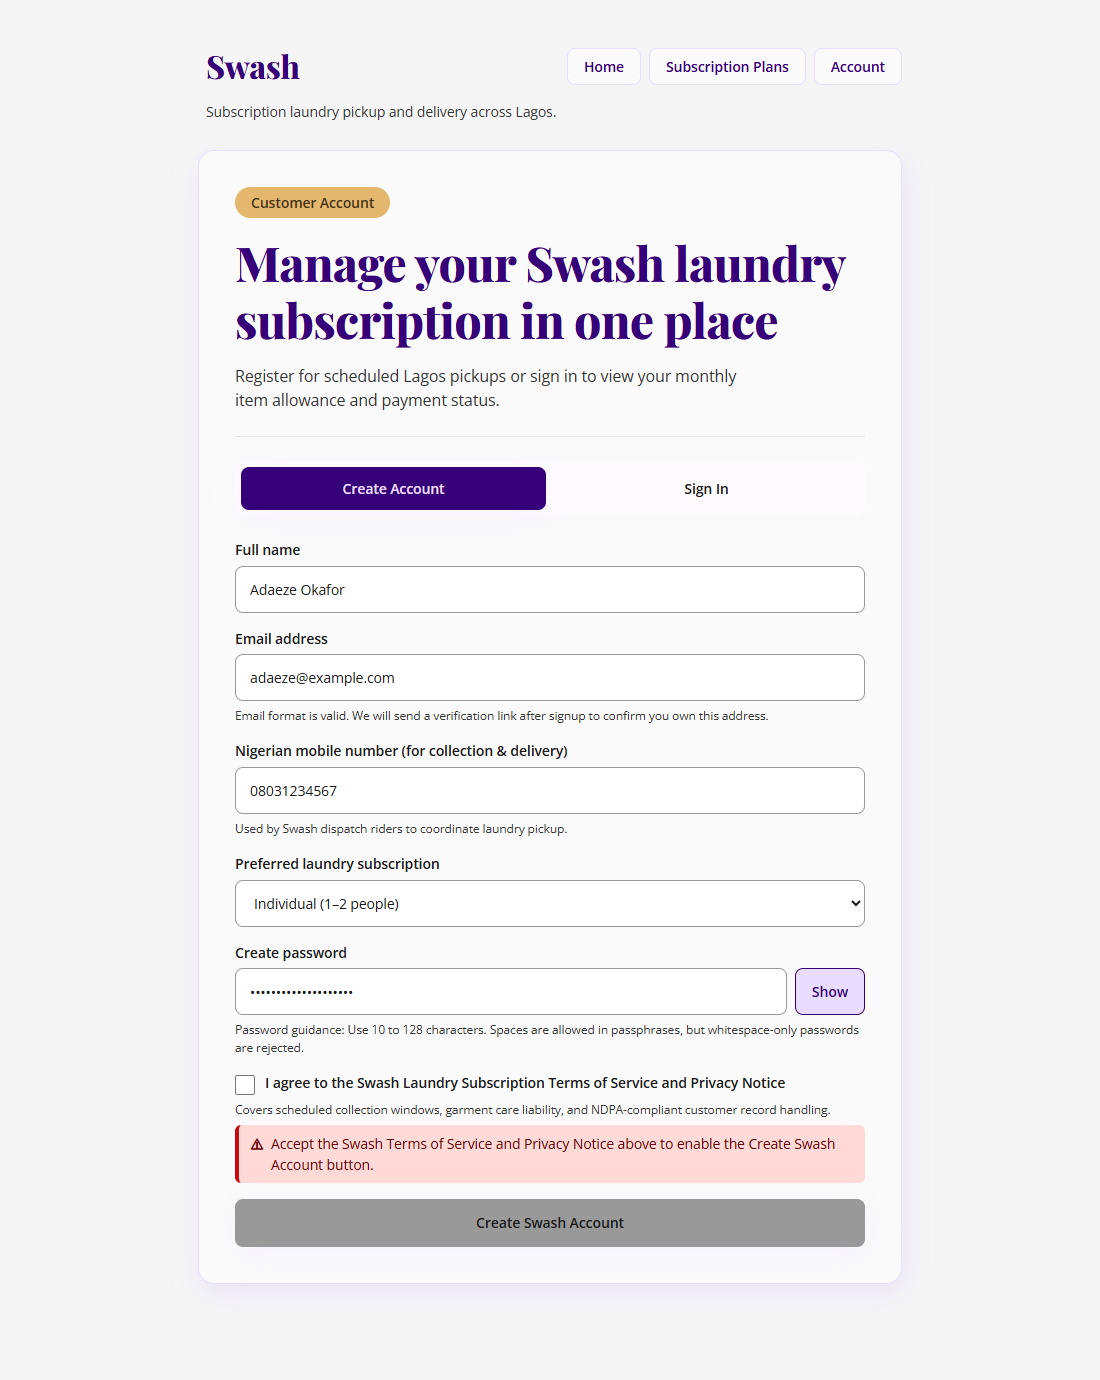
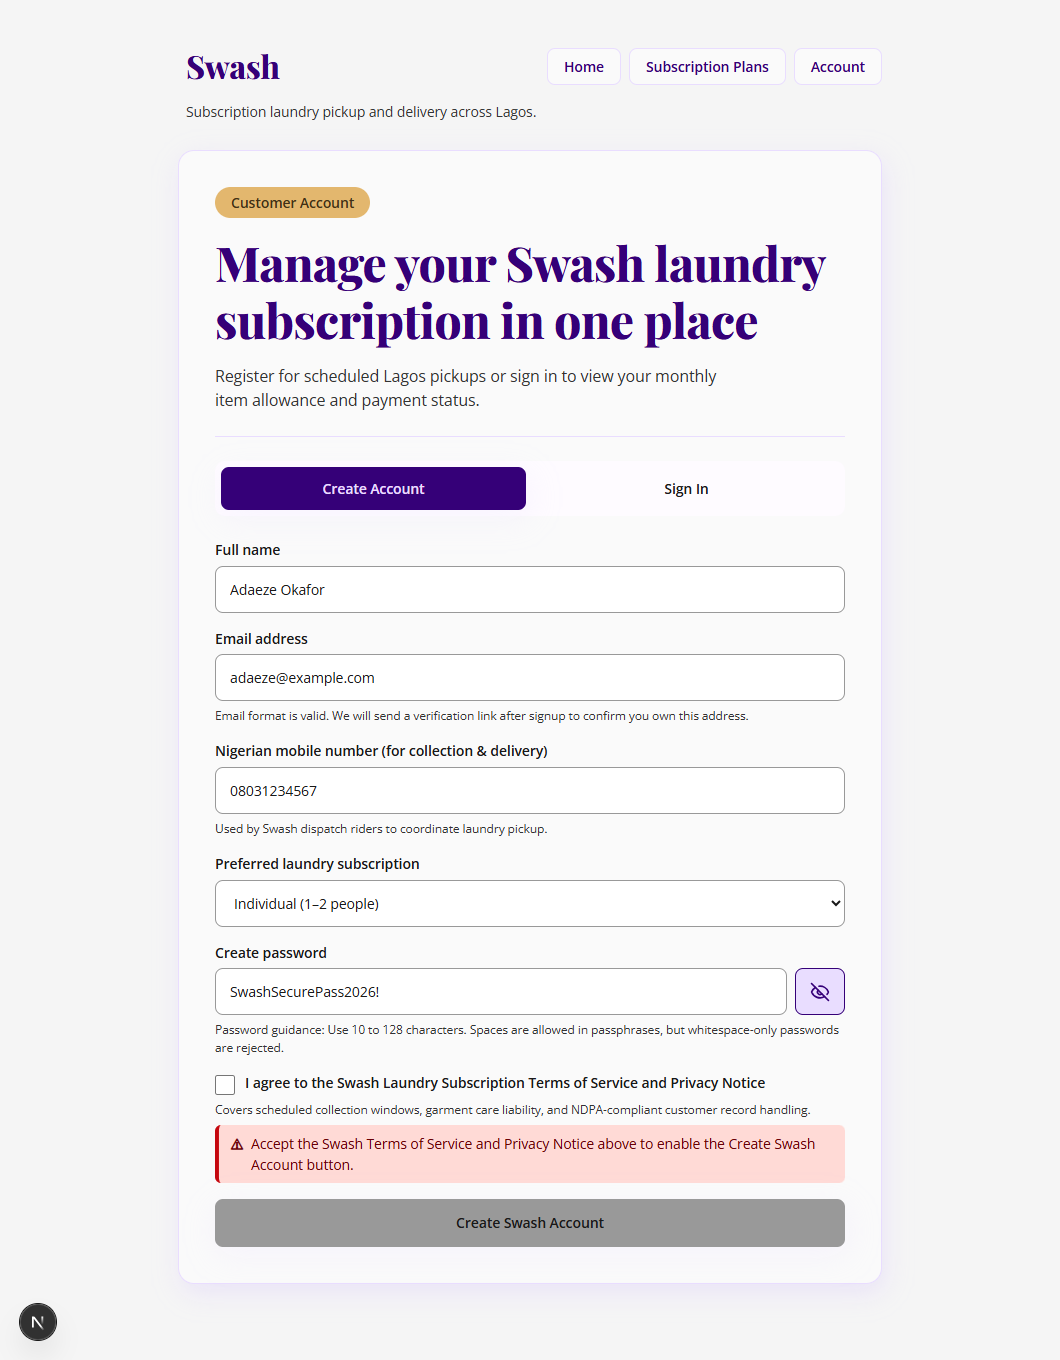
updated auth form ui

diff --git a/src/components/AuthForm.tsx b/src/components/AuthForm.tsx
@@ -487,8 +487,46 @@ export default function AuthForm() {
               onClick={() => setShowPassword((prev) => !prev)}
               aria-label={showPassword ? "Hide password" : "Show password"}
               aria-pressed={showPassword}
+              aria-controls="auth-password"
+              id="auth-password-toggle"
             >
-              {showPassword ? "Hide" : "Show"}
+              {showPassword ? (
+                <svg
+                  xmlns="http://www.w3.org/2000/svg"
+                  width="20"
+                  height="20"
+                  viewBox="0 0 24 24"
+                  fill="none"
+                  stroke="currentColor"
+                  strokeWidth="2"
+                  strokeLinecap="round"
+                  strokeLinejoin="round"
+                  className="lucide lucide-eye-off"
+                  aria-hidden="true"
+                >
+                  <path d="M10.733 5.076a10.744 10.744 0 0 1 11.205 6.575 1 1 0 0 1 0 .696 10.747 10.747 0 0 1-1.444 2.49" />
+                  <path d="M14.084 14.158a3 3 0 0 1-4.242-4.242" />
+                  <path d="M17.479 17.499a10.75 10.75 0 0 1-15.417-5.151 1 1 0 0 1 0-.696 10.75 10.75 0 0 1 4.446-5.143" />
+                  <path d="m2 2 20 20" />
+                </svg>
+              ) : (
+                <svg
+                  xmlns="http://www.w3.org/2000/svg"
+                  width="20"
+                  height="20"
+                  viewBox="0 0 24 24"
+                  fill="none"
+                  stroke="currentColor"
+                  strokeWidth="2"
+                  strokeLinecap="round"
+                  strokeLinejoin="round"
+                  className="lucide lucide-eye"
+                  aria-hidden="true"
+                >
+                  <path d="M2.062 12.348a1 1 0 0 1 0-.696 10.75 10.75 0 0 1 19.876 0 1 1 0 0 1 0 .696 10.75 10.75 0 0 1-19.876 0" />
+                  <circle cx="12" cy="12" r="3" />
+                </svg>
+              )}
             </button>
           </div>
 

diff --git a/src/app/page.module.css b/src/app/page.module.css
@@ -505,13 +505,16 @@
 }
 
 .passwordToggle {
+  display: inline-flex;
+  align-items: center;
+  justify-content: center;
   background-color: var(--colour-inverse-primary-role);
   color: var(--colour-on-inverse-primary-role);
   border-width: 0.0625rem;
   border-style: solid;
   border-color: var(--colour-on-inverse-primary-role);
   border-radius: 0.5rem;
-  padding: 0.625rem 1rem;
+  padding: 0.625rem 0.875rem;
   cursor: pointer;
   font-family: var(--typography-open-sans-label-large-font-family), system-ui, -apple-system, sans-serif;
   font-size: var(--typography-open-sans-label-large-font-size);

diff --git a/task-03-client-validation/docs/accessibility-audit.md b/task-03-client-validation/docs/accessibility-audit.md
@@ -10,7 +10,7 @@ This document records the field-by-field manual accessibility audit of [`src/com
 | --- | --- | --- | --- |
 | **1** | **Error state relied on red border/text colour alone:** Invalid inputs changed border colour to `--colour-error-role` without any non-colour symbol, making error vs. normal states indistinguishable for users with protanopia/deuteranopia or monochrome displays. | **1.4.1 Use of Color (Level A)** | Added a visible non-colour caution icon (`<span aria-hidden="true" className={styles.cautionIcon}>⚠</span>`) beside every inline error message (`src/components/AuthForm.tsx:287, 336, 379, 463, 498`) and doubled the border width on `.inputError` from `0.0625rem` (`1px`) to `0.125rem` (`2px`). |
 | **2** | **Inline errors were not programmatically associated with inputs:** Error `<p>` elements rendered visually below inputs, but the `<input>` elements lacked `aria-describedby` and `aria-invalid`, so screen readers tabbing into an invalid field only announced `"Full name, edit, required"` without reading the error message. | **1.3.1 Info and Relationships (Level A)** & **3.3.1 Error Identification (Level A)** | Added unique IDs (`#auth-full-name-error`, `#auth-email-error`, `#auth-phone-error`, `#auth-password-error`, `#auth-accept-terms-error`), bound `aria-describedby` on each `<input>`, and set `aria-invalid={Boolean(visibleErrors[field])}` plus `role="alert"` on each inline error container. |
-| **3** | **Password visibility toggle lacked stateful accessible name and `aria-pressed`:** The button initially only rendered text `"Show"` / `"Hide"` without context, so screen readers announced `"Show, button"` without indicating *what* would be shown or its toggle state. | **4.1.2 Name, Role, Value (Level A)** | Added `aria-label={showPassword ? "Hide password" : "Show password"}` and `aria-pressed={showPassword}` on `.passwordToggle` (`src/components/AuthForm.tsx:443-448`). |
+| **3** | **Icon-only password visibility toggle (`lucide-eye` / `lucide-eye-off`) lacked stateful accessible name and `aria-pressed`:** The button rendered only the Lucide `eye` / `eye-off` SVG icon without an accessible text label or toggle state, so screen readers announced `"button"` without indicating *what* the icon button does or whether the password is currently visible. | **4.1.2 Name, Role, Value (Level A)** & **1.1.1 Non-text Content (Level A)** | Added `aria-hidden="true"` on the decorative `<svg className="lucide lucide-eye">` / `lucide-eye-off` icons and set `aria-label={showPassword ? "Hide password" : "Show password"}`, `aria-pressed={showPassword}`, and `aria-controls="auth-password"` on `.passwordToggle` (`src/components/AuthForm.tsx:484-530`). |
 | **4** | **Mode switcher buttons (`Create Account` / `Sign In`) did not announce active tab state:** Both mode buttons were plain `<button>` elements inside a `<div>`, so screen-reader users could not tell which authentication mode (`register` vs. `login`) was currently active. | **4.1.2 Name, Role, Value (Level A)** | Added `role="tablist"` and `aria-label="Authentication mode"` on `.modeSwitcher`, and `role="tab"` with `aria-selected={mode === ...}` on both mode buttons (`src/components/AuthForm.tsx:235-256`). |
 
 ---
@@ -24,7 +24,7 @@ This document records the field-by-field manual accessibility audit of [`src/com
 | **Email address** (`#auth-email`) | `2px` border + `⚠` caution icon + text message. | Reachable via `Tab`. | `0.125rem` solid focus ring. | `"Email address, edit, required, invalid entry, Enter a valid email format such as name@domain.com."` | `aria-invalid="true"` + `aria-describedby="auth-email-error"` (or `#auth-email-ownership-note` when valid) |
 | **Nigerian mobile number** (`#auth-phone`) | `2px` border + `⚠` caution icon + text message. | Reachable via `Tab`. | `0.125rem` solid focus ring. | `"Nigerian mobile number (for collection & delivery), edit, required, invalid entry, Enter an 11-digit Nigerian mobile number..."` | `aria-invalid="true"` + `aria-describedby="auth-phone-error"` (or `#auth-phone-hint`) |
 | **Preferred subscription** (`#auth-service-plan`) | Native `<select>` indicator + clear text options. | Reachable via `Tab`; options navigated with `Up`/`Down` arrow keys. | `0.125rem` solid focus ring. | `"Preferred laundry subscription, combo box, Individual (1–2 people), collapsed"` | Validated default option (`Individual Subscription`). |
-| **Password** (`#auth-password`) + **Toggle** | `2px` border + `⚠` caution icon + progressive guidance text. | Input and `Show/Hide` button both in `Tab` order; toggle activates via `Space`/`Enter`. | `0.125rem` solid focus ring on both input and toggle button. | Input: `"Create password, password edit, required..."`<br>Button: `"Show password, toggle button, not pressed"` | `aria-invalid="true"` + `aria-describedby="auth-password-guidance auth-password-error"` |
+| **Password** (`#auth-password`) + **Toggle** (`#auth-password-toggle`) | `2px` border + `⚠` caution icon + progressive guidance text; toggle switches between Lucide `eye` and `eye-off` icons. | Input and `eye`/`eye-off` icon button both in `Tab` order; toggle activates via `Space`/`Enter`. | `0.125rem` solid focus ring on both input and toggle button. | Input: `"Create password, password edit, required..."`<br>Button: `"Show password, toggle button, not pressed"` (and `"Hide password, toggle button, pressed"` when active) | `aria-invalid="true"` + `aria-describedby="auth-password-guidance auth-password-error"` |
 | **Terms checkbox** (`#auth-accept-terms`) | Native checkmark + `⚠` caution icon on error banner. | Reachable via `Tab`; toggled via `Space`. | `0.125rem` solid `--colour-on-inverse-primary-role` outline. | `"I agree to the Swash Laundry Subscription Terms of Service and Privacy Notice, check box, not checked"` | `aria-invalid="true"` + `aria-describedby="auth-accept-terms-error"` |
 | **Submit button** (`#auth-submit-button`) | Disabled state changes cursor (`not-allowed`), surface, and `disabled` attribute. | Reachable when enabled; reports `unavailable` when disabled. | `0.125rem` solid `--colour-accent-role` outline. | `"Create Swash Account, button, unavailable"` (until valid) / `"Create Swash Account, button"` (when valid) | N/A |
 

diff --git a/task-03-client-validation/README.md b/task-03-client-validation/README.md
@@ -14,7 +14,7 @@ Task 03 consolidates customer authentication into a single, accessible, client-v
 - **Mobile Input Type & Virtual Keyboard Selection (Step 4):** Replacing `<input type="number">` (which strips the leading `0` from 11-digit Nigerian mobile numbers like `08031234567`) with `<input type="tel" inputMode="numeric">`.
 - **Sensitive Hint & Enumeration Protection (Step 5):** Suppressing registration password policy rules on the login form and standardising authentication failure messaging to prevent account enumeration.
 - **Manual Accessibility Audit & Remediation (Step 6):** Auditing the authentication flow across five accessibility criteria, fixing five concrete accessibility defects (including adding non-colour `⚠` caution icons, ARIA error bindings, WAI-ARIA tablist roles, and screen-reader state announcements), and capturing before/after screen-reader transcripts.
-- **Progressive Password Guidance, Visibility Toggle & Submit Button State (Step 7):** Providing real-time passphrase feedback on registration, an accessible `Show`/`Hide` password toggle (`aria-label` + `aria-pressed`), and a submit button that remains visible by default and disabled until all client-side rules pass.
+- **Progressive Password Guidance, Visibility Toggle & Submit Button State (Step 7):** Providing real-time passphrase feedback on registration, an accessible Lucide `eye` / `eye-off` password visibility toggle (`aria-label` + `aria-pressed`), and a submit button that remains visible by default and disabled until all client-side rules pass.
 - **Adversarial Form Testing & Direct Endpoint Bypass (Step 8):** Attacking the form in the browser and bypassing the browser completely with `curl.exe` against `POST /api/auth` to prove that client-side validation is a UX helper, not a security boundary.
 - **Commit-ID Rollback (Step 9):** Making a deliberate change that was subsequently rejected, rolling it back by exact commit SHA (`git revert <sha>`), and documenting why commit-SHA rollback is safer than natural-language rollback instructions.
 

diff --git a/.agent/rules/RULES.md b/.agent/rules/RULES.md
@@ -71,3 +71,23 @@ These rules apply to all implementation work.
 - Do not overwrite existing work without understanding its purpose.
 
 Follow the specialised rules when working in their respective domains.
+
+### Password Security
+
+- Use Argon2id for password hashing.
+- Use the `argon2` package for Node.js implementation.
+- Never store plaintext passwords.
+- Never use MD5, SHA-1, SHA-256 or SHA-512 alone for password storage.
+- Never implement custom password-hashing or salting algorithms.
+- Generate a unique cryptographically secure salt for every password.
+- Allow the Argon2id library to generate and manage salts automatically.
+- Use the following initial Argon2id configuration:
+  - Memory cost: 19456 KiB
+  - Time cost: 2
+  - Parallelism: 1
+- Store only the resulting encoded password hash in PostgreSQL.
+- Verify passwords using the library's verification function.
+- Perform password hashing and verification exclusively on the server.
+- Never expose password hashes through API responses.
+- Never log passwords or other authentication secrets.
+- Benchmark password-hashing performance in the deployment environment.
